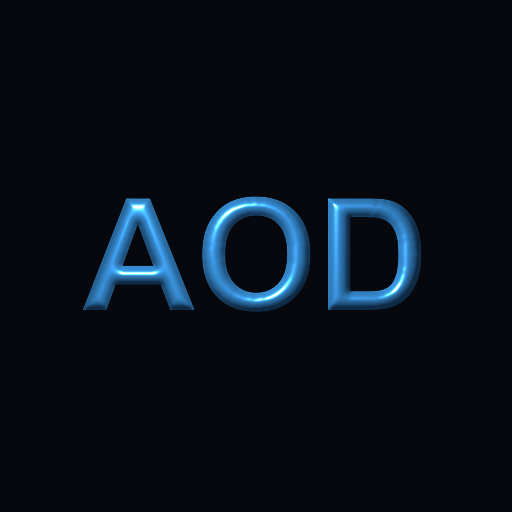
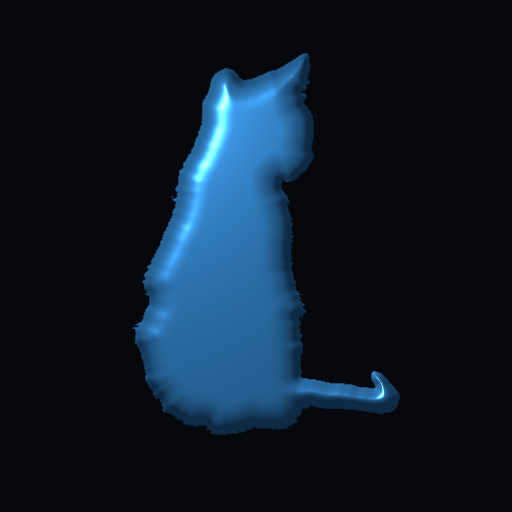
docs(image-bevel): render catalog previews from a cat silhouette

Changed region(s): [[0.1562, 0.0938, 0.8438, 0.875]]

diff --git a/docs/catalog/build-catalog.jsx b/docs/catalog/build-catalog.jsx
@@ -371,26 +371,24 @@
         if (item.match === "ImageBevel") {
             comp.layers.addSolid([0.025, 0.035, 0.055], "Background", 512, 512, 1, 1);
             var bevelSource = app.project.items.addComp("CATPREVIEW - Image Bevel Source", 512, 512, 1, 1, 30);
-            var bevelText = bevelSource.layers.addText("AOD");
-            var bevelDoc = bevelText.property("ADBE Text Properties").property("ADBE Text Document").value;
-            bevelDoc.font = "Arial-BoldMT";
-            bevelDoc.fontSize = 156;
-            bevelDoc.fillColor = [1,1,1];
-            bevelDoc.justification = ParagraphJustification.CENTER_JUSTIFY;
-            bevelText.property("ADBE Text Properties").property("ADBE Text Document").setValue(bevelDoc);
-            bevelText.property("ADBE Transform Group").property("ADBE Position").setValue([256,310]);
+            var silhouetteFile = new File(docsRoot.fsName + "/assets/sources/cat-silhouette.png");
+            if (!silhouetteFile.exists) {
+                throw new Error("Missing cat silhouette: " + silhouetteFile.fsName);
+            }
+            var silhouette = app.project.importFile(new ImportOptions(silhouetteFile));
+            bevelSource.layers.add(silhouette);
             layer = comp.layers.add(bevelSource);
             var bevelEffect = addEffect(layer, item.match);
-            setProperty(bevelEffect, "Bevel Width (px)", 12);
-            setProperty(bevelEffect, "Height (px)", 10);
-            setProperty(bevelEffect, "Height Blur (px)", 1.2);
+            setProperty(bevelEffect, "Bevel Width (px)", 28);
+            setProperty(bevelEffect, "Height (px)", 22);
+            setProperty(bevelEffect, "Height Blur (px)", 1.5);
             setProperty(bevelEffect, "Base Color", [0.2,0.55,0.9,1]);
-            setProperty(bevelEffect, "Roughness", 0.36);
+            setProperty(bevelEffect, "Roughness", 0.42);
             setProperty(bevelEffect, "Metallic", 0.3);
             setProperty(bevelEffect, "Ambient", 0.3);
-            setProperty(bevelEffect, "Light Position", [145,70]);
+            setProperty(bevelEffect, "Light Position", [95,55]);
             setProperty(bevelEffect, "Light Height (px)", 300);
-            setProperty(bevelEffect, "Light Intensity", 4);
+            setProperty(bevelEffect, "Light Intensity", 3);
             item.comp = comp.name;
             return comp;
         } else if (item.match === "TextureStroke") {

diff --git a/docs/catalog/assets/sources/README.md b/docs/catalog/assets/sources/README.md
@@ -1,0 +1,12 @@
+# カタログ用の入力素材
+
+## cat-silhouette.png
+
+`AOD_ImageBevel`のプレビューに使用する、512×512ピクセルの白い猫の透過シルエットです。毛並みの明暗を含めず、アルファから輪郭を読み取ります。
+
+元素材はEmre Gencer氏のUnsplash写真（`emre-153_VPk1NZQ-unsplash.jpg`）を加工した、既存の[Image Relightプレビュー](../previews/image-relight.png)です。After Effects 2025で次の処理を行い、16 bpc・作業用カラースペースなしのコンポジションからPNGを書き出しました。
+
+1. `Color Key`で背景色RGB `(8, 11, 16)`を指定し、`Color Tolerance`を`2`、`Edge Thin`を`0`、`Edge Feather`を`0.5`に設定。
+2. `Fill`でRGBを白に統一し、透過アルファを保持。
+
+カタログ再生成時はこのPNGを直接読み込みます。元写真や加工元のプレビューを再度キーイングする必要はありません。

diff --git a/plugins/image-bevel/README.md b/plugins/image-bevel/README.md
@@ -6,6 +6,8 @@ Creates curve-shaped bevels from silhouettes with configurable materials and lig
 
 ![プレビュー](../../docs/catalog/assets/previews/image-bevel.png)
 
+プレビューは[猫の透過シルエット](../../docs/catalog/assets/sources/cat-silhouette.png)からSDFでベベルを作り、青い材質と左上のライトを適用したAEの出力です。
+
 ## 基本操作
 
 1. 透過画像やテキストを含むレイヤーに適用します。外側へ広げる場合は、周囲に透明な余白のあるプリコンポーズを使用してください。

diff --git a/docs/catalog/anime.md b/docs/catalog/anime.md
@@ -12,6 +12,8 @@
 
 シルエットから編集可能な断面カーブでベベルを作り、材質とライティングを設定します。
 
+プレビューは[猫の透過シルエット](assets/sources/cat-silhouette.png)を入力に、SDF・内側ベベル・青い材質・左上のライトで生成しています。
+
 ### パラメーター
 
 - `Profile Curve`: クリックで点を追加、ドラッグで移動、Ctrl/Cmdクリックで削除。滑らかな補間・直線補間と5種類のプリセットを選べます。
